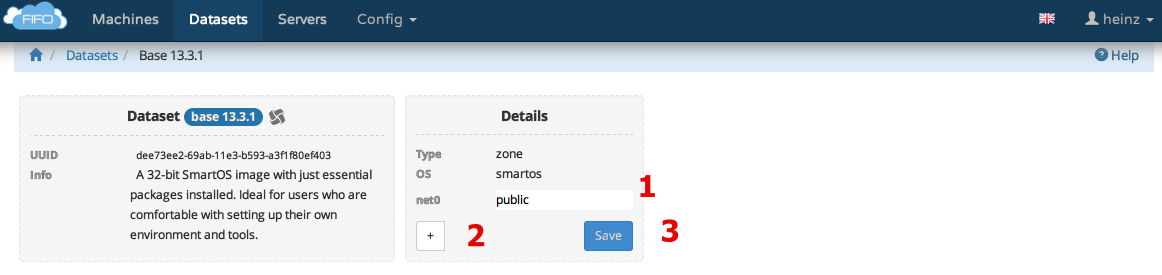
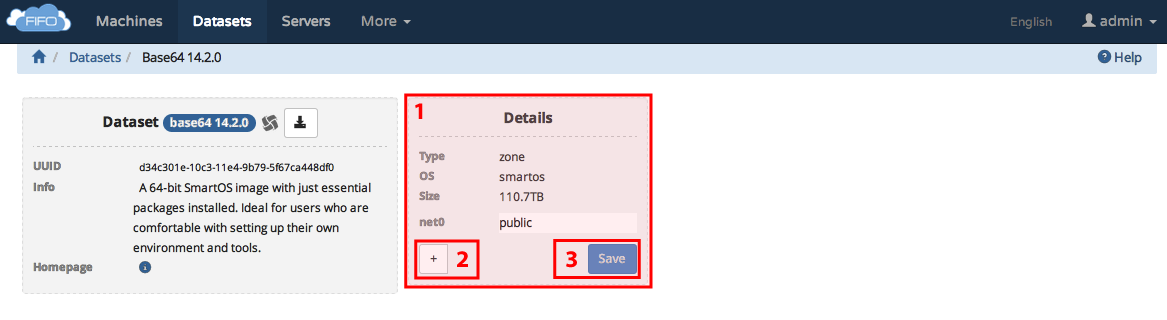
added buttons and screenshots of new UI
- screenshots of new UI added

- buttons added if mentioned in text (almost all buttons (except the
very small ones) are scaled to 75% size to fit in line with text)

diff --git a/jingles/datasets.rst b/jingles/datasets.rst
@@ -8,7 +8,7 @@ Datasets
 Installed Datasets
 ##################
 
-.. image:: /_static/images/jingles/datasets01.jpg
+.. image:: /_static/images/jingles/datasets01.png
 
 
 *FiFo* incorporates its own internal dataset repository. It uses this repository to deploy datasets to individual *SmartOS* compute nodes that are under *FiFo's* management. *FiFo* is designed with no single point of failure in mind. By default the dataset storage database breaks each dataset into redundant shards and distributes it across your *FiFo* cluster (if setup in a clustered configuration). This means that datasets will always be available for provisioning.
@@ -19,21 +19,24 @@ The installed datasets tab shows you which datasets exist in the internal reposi
 
 .. image:: /_static/images/jingles/datasets02.jpg
 
-To delete a dataset and remove it from the repository click on the "**X**" delete icon next to the individual dataset.
+To delete a dataset and remove it from the repository click on the |delete button| icon next to the individual dataset.
+
+.. |delete button| image:: /_static/images/jingles/datasets-destroy.png
 
 
 Remote Datasets
 ###############
 
-.. image:: /_static/images/jingles/datasets03.jpg
+.. image:: /_static/images/jingles/datasets03.png
 
 The remote datasets tab is where you choose which external datasets you would like to import into *FiFo's* internal dataset repository. By default *FiFo* is pre-configured to pull datasets from `datasetsat <http://www.datasets.at>`_ the community dataset repository which contains all the official *Joyent* datasets as well as community contributed datasets.
 
-	1. To "import" a dataset simply click on the import button. The importing dataset progress bar will then be visible in the "dataset installed" tab.
+	1. To "import" a dataset simply click on the |import button| button. The importing dataset progress bar will then be visible in the "dataset installed" tab.
 	2. Shows the external repository *FiFo* is currently associated with.
 
 Should you wish to change the remote repository source this can be configured by editing the `configuration file <configuration.html>`_.
 
+.. |import button| image:: /_static/images/jingles/datasets-import.png
 
 Details
 #######
@@ -43,7 +46,10 @@ Details
 The dataset details allow edit some details of a dataset after it was imported.
 
 	1. The currently attached NIC's can be deleted one by one.
-	2. Allows adding a new required NIC.
-	3. Saves the changes.
+	2. By clicking the |add dataset| button you can add a new required NIC.
+	3. By clicking the |save dataset| button you save any changes made.
+
+.. |add dataset| image:: /_static/images/jingles/datasets-new.png
+.. |save dataset| image:: /_static/images/jingles/datasets-save.png
 
 

diff --git a/jingles/hypervisors.rst b/jingles/hypervisors.rst
@@ -24,12 +24,13 @@ The hypervisors section shows a list of all compute nodes / servers under **FiFo
 Details
 #######
 
-.. image:: /_static/images/jingles/hypervisors02.jpg
+.. image:: /_static/images/jingles/hypervisors02.png
 
 The hypervisor details page shows information and contains sections related to an individual hypervisor.
 
 1. The name of the hypervisor/compute node. If hostname is not set the mac address of the admin interface will be used as name.
 The individual tabs relating to the hypervisor (`Performance`_ | `Characteristics`_) are explained in more detail below.
+
 2. The details tab contains a plethora of information relating to the hypervisor / compute node
 
   - **Information** Includes SmartOS version of node and the "zpool" type.
@@ -42,17 +43,30 @@ The individual tabs relating to the hypervisor (`Performance`_ | `Characteristic
 
 .. image:: /_static/images/jingles/hypervisors-disks.png
 
+.. todo::
+
+	"4." is still missing.
+
 Performance
 ***********
 
-.. image:: /_static/images/jingles/hypervisors03.jpg
+.. image:: /_static/images/jingles/hypervisors03.png
 
 The hypervisor **Performance** tab currently only contains a CPU load graph, but this will be expanded upon in future versions to include other metrics such as ram, disk, network utilisation.
 
 Characteristics
 ***************
 
-.. image:: /_static/images/jingles/hypervisors04.jpg
+.. image:: /_static/images/jingles/hypervisors04.png
+
+To create or work with **Characteristics**:
+
+1. Click the |add button| button. Enter a key name for the new characteristic in the popup dialogue then click ok.
+2. Enter some metadata for your specific key.
+3. if you would like to delete a key and associated metadata, simply click the |delete button| button.
+
+.. |add button| image:: /_static/images/jingles/hypervisors-new.png
+.. |delete button| image:: /_static/images/jingles/hypervisors-destroy.png
 
 The **Characteristic** "metadata" is a powerful addition to *FiFo* when used in conjunction with package rules and the inherent intelligence of *FiFo*'s auto provisioning algorithm. For example you could create a package "X" that says when provisioning a VM with this package only provision on:
 
@@ -69,8 +83,4 @@ This is an awesome capability ensuring that if a certain package is used it will
 	
 	...and more... your imagination is the only limit.
 
-To create or work with **Characteristics**:
 
-1. Click the **+** add button. Enter a key name for the new characteristic in the popup dialogue then click ok.
-2. Enter some metadata for your specific key.
-3. if you would like to delete a key and associated metadata, simply click the **-** delete button.

diff --git a/jingles/machines.rst b/jingles/machines.rst
@@ -116,7 +116,10 @@ Snapshots
 
 .. image:: /_static/images/jingles/machines09.png
 
-The **Snapshots** tab lets you create snapshots and roll back to previous snapshots. The rollback icon will only be visible if the machine is in a *stopped* state and is not *lock protected*.  To create a snapshot simply click the **Snapshot** button and enter a name/comment for your snapshot in the snapshot popup window. Click the **OK** button to create the machine. 
+The **Snapshots** tab lets you create snapshots and roll back to previous snapshots. The rollback icon will only be visible if the machine is in a *stopped* state and is not *lock protected*.  To create a snapshot simply click the |snapshot button| button and enter a name/comment for your snapshot in the snapshot popup window. Click the |ok button| button to create the machine. 
+
+.. |snapshot button| image:: /_static/images/jingles/machines-snapshot.png
+.. |ok button| image:: /_static/images/jingles/machines-snapshot-ok.png
 
 .. Attention::
     When rolling back to a snapshot all snapshots that were created after the rollback date will be destroyed. To delete a specific snapshot click on the |trash| icon next to the snapshot.
@@ -145,4 +148,6 @@ Notes
 
 .. image:: /_static/images/jingles/machines12.png
 
-In the **Note** tab you to record notes or details related to the machine. This can be any information that you deem useful and would like to remember. To create a note simply click on the **+** button and type your note into the popup dialogue and then click ok to create the note. Each individual note is time stamped so you know when it was created. To delete a note, simply click on the **X** icon in the top right hand corner of the note.
+In the **Note** tab you to record notes or details related to the machine. This can be any information that you deem useful and would like to remember. To create a note simply click on the **+** button and type your note into the popup dialogue and then click ok to create the note. Each individual note is time stamped so you know when it was created. To delete a note, simply click on the |delete note button| icon in the top right hand corner of the note.
+
+.. |delete note button| image:: /_static/images/jingles/machines-notes-destroy.png

diff --git a/jingles/usermanagement.rst b/jingles/usermanagement.rst
@@ -44,7 +44,9 @@ This will take you to the new user creation page as shown below.
 
 .. image:: /_static/images/jingles/users02.png
 
-Enter a username for your new user. Please note that usernames are case sensitive. Enter a password for your new user by typing in the password twice. Only if the two passwords are identical the "create" button will appear. To complete user creation click on the "create" button.
+Enter a username for your new user. Please note that usernames are case sensitive. Enter a password for your new user by typing in the password twice. Only if the two passwords are identical the |create button| button will appear. To complete user creation click on the |create button| button.
+
+.. |create button| image:: /_static/images/jingles/users-create.png
 
 Details - Users
 ***************
@@ -114,7 +116,9 @@ To add a new role click on the |new roles| button.
 
 .. image:: /_static/images/jingles/roles02.png
 
-Enter a name for your new role and click on the create button.
+Enter a name for your new role and click on the |create button2| button.
+
+.. |create button2| image:: /_static/images/jingles/users-create.png
 
 Details - Roles
 ***************
